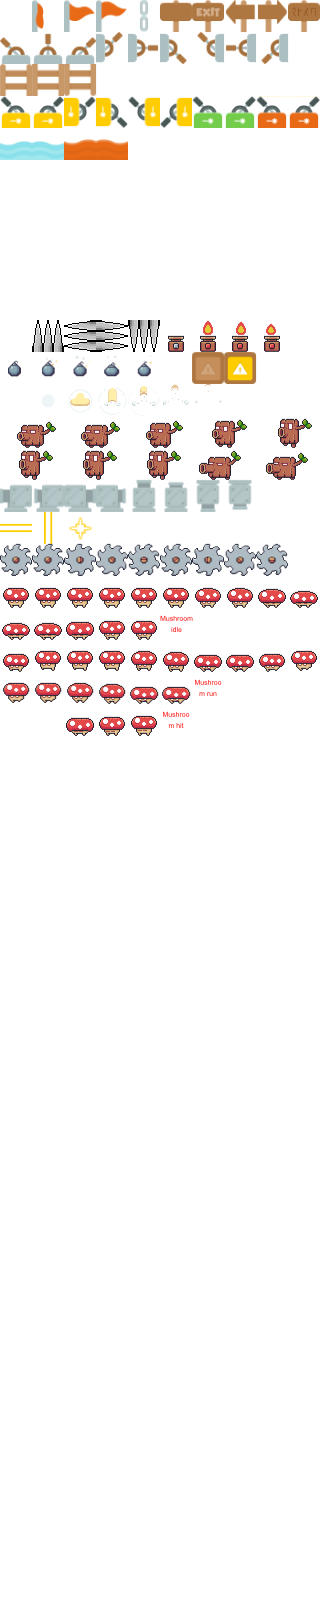
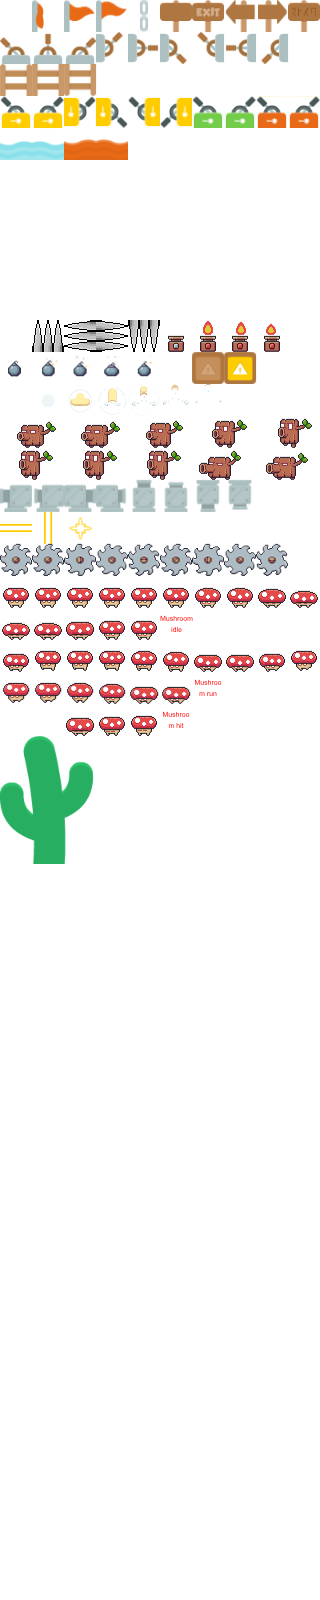
Add Cactus graphics, add cactus construction as ennemie

Changed region(s): [[0.0, 0.4375, 0.3125, 0.5625]]

diff --git a/WomxnDevelopUbisoftDemo/Game/GameDemo.cpp b/WomxnDevelopUbisoftDemo/Game/GameDemo.cpp
@@ -47,7 +47,7 @@ GameDemo::GameDemo()
     m_TextureDead.loadFromFile(dead_texture_name);
 	DeadBody::SetTextureAtlas(&m_TextureDead);
 
-    m_ennemies = m_Elements.loadObjects(texture_name, sf::Vector2u(32, 32), sf::Vector2u(10, 50), 32, 24, m_objects);
+    m_ennemies = m_Elements.loadObjects(texture_name, sf::Vector2u(32, 32), sf::Vector2u(10, 50), 32, 24, m_objects, m_cactus);
     
     // Load main character 
     m_MainCharacter = new MainCharacter(sf::Vector2u(1024, 768), m_Elements.getMainCharacterSpawnPosition());
@@ -89,6 +89,11 @@ void GameDemo::Render(sf::RenderTarget& target)
 	for ( const auto& enm : m_ennemies) 
 	{
 		target.draw(enm); 
+	}		
+    
+    for ( const auto& cac : m_cactus) 
+	{
+		target.draw(cac); 
 	}	
     
     // Elements 
@@ -356,14 +361,14 @@ void GameDemo::RenderDebugMenu(sf::RenderTarget& target)
         
         if (timer_progress_water < 0.3f)
         {
-            ImGui::PushStyleColor(ImGuiCol_FrameBg, (ImVec4)ImColor::HSV(0.0f / 7.0f, 0.4f, 0.5f));
-            ImGui::PushStyleColor(ImGuiCol_PlotHistogram, (ImVec4)ImColor::HSV(0.0f / 7.0f, 0.7f, 0.5f));
+            ImGui::PushStyleColor(ImGuiCol_FrameBg, (ImVec4)ImColor::HSV(0.0f / 7.0f, 0.4f, 0.6f));
+            ImGui::PushStyleColor(ImGuiCol_PlotHistogram, (ImVec4)ImColor::HSV(0.0f / 7.0f, 0.7f, 0.6f));
 
         }
         else
         {
-            ImGui::PushStyleColor(ImGuiCol_FrameBg, (ImVec4)ImColor::HSV(4.0f / 7.0f, 0.4f, 0.5f));
-            ImGui::PushStyleColor(ImGuiCol_PlotHistogram, (ImVec4)ImColor::HSV(4.0f / 7.0f, 0.7f, 0.5f));
+            ImGui::PushStyleColor(ImGuiCol_FrameBg, (ImVec4)ImColor::HSV(188.8f / 360.f, 0.4f, 0.7f));
+            ImGui::PushStyleColor(ImGuiCol_PlotHistogram, (ImVec4)ImColor::HSV(188.8f / 360.f, 0.7f, 0.7f));
         }
 
         ImGui::ProgressBar(timer_progress_water, ImVec2(70.0f, 0.0f));
@@ -375,14 +380,14 @@ void GameDemo::RenderDebugMenu(sf::RenderTarget& target)
         float timer_progress_void = 1.0f - m_MainCharacter->GetPourcentageAllowedTime(terrain::Element::Void);
         if (timer_progress_void < 0.3f)
         {
-            ImGui::PushStyleColor(ImGuiCol_FrameBg, (ImVec4)ImColor::HSV(0.0f / 7.0f, 0.4f, 0.5f));
-            ImGui::PushStyleColor(ImGuiCol_PlotHistogram, (ImVec4)ImColor::HSV(0.0f / 7.0f, 0.7f, 0.5f));
+            ImGui::PushStyleColor(ImGuiCol_FrameBg, (ImVec4)ImColor::HSV(0.0f / 7.0f, 0.4f, 0.6f));
+            ImGui::PushStyleColor(ImGuiCol_PlotHistogram, (ImVec4)ImColor::HSV(0.0f / 7.0f, 0.7f, 0.6f));
 
         }
         else
         {
-            ImGui::PushStyleColor(ImGuiCol_FrameBg, (ImVec4)ImColor::HSV(5.0f / 7.0f, 0.5f, 0.5f));
-            ImGui::PushStyleColor(ImGuiCol_PlotHistogram, (ImVec4)ImColor::HSV(5.0f / 7.0f, 0.7f, 0.5f));
+            ImGui::PushStyleColor(ImGuiCol_FrameBg, (ImVec4)ImColor::HSV(5.0f / 7.0f, 0.5f, 0.6f));
+            ImGui::PushStyleColor(ImGuiCol_PlotHistogram, (ImVec4)ImColor::HSV(5.0f / 7.0f, 0.7f, 0.6f));
         }
         ImGui::ProgressBar(timer_progress_void, ImVec2(70.0f, 0.0f));
         ImGui::SameLine(0.0f, 5.0f);

diff --git a/WomxnDevelopUbisoftDemo/Game/TileMap.cpp b/WomxnDevelopUbisoftDemo/Game/TileMap.cpp
@@ -4,7 +4,7 @@
 #include <Game/ObjectsElements.h>
 
 
-std::vector<Ennemie> TileMap::loadObjects(const std::string& objectset, sf::Vector2u tileSize, sf::Vector2u NspriteSize, unsigned int width, unsigned int height, std::vector<ObjectsElements>& l_objects)
+std::vector<Ennemie> TileMap::loadObjects(const std::string& objectset, sf::Vector2u tileSize, sf::Vector2u NspriteSize, unsigned int width, unsigned int height, std::vector<ObjectsElements>& l_objects, std::vector<Ennemie>& cactus)
 {
 	
 	if (m_type != TmapType::monstobjects)
@@ -44,7 +44,15 @@ std::vector<Ennemie> TileMap::loadObjects(const std::string& objectset, sf::Vect
 					// Die at touch 
                     l_ennemies.push_back(Ennemie(spaw, false, animated, coord, tileSize.x, tileSize.y));
 				}
-				else 
+                else if (m_tiles[k] == 330)
+                {
+                    bool animated = false;
+                    sf::Vector2u cactus_size(3 * 32, 4 * 32);
+                    // match base of cactus with tile lower ypoint 
+                    spaw.y += tileSize.y/2.0f - cactus_size.y/2.0f ;
+                    cactus.push_back(Ennemie(spaw, false, animated, coord, cactus_size.x, cactus_size.y));
+                }
+                else
 				{
 					// classical elements
                     l_objects.push_back(ObjectsElements(spaw, true, coord, tileSize.x, tileSize.y));
@@ -115,6 +123,7 @@ bool TileMap::load(const std::string& tileset, sf::Vector2u tileSize, unsigned i
         return true;
 
 };
+
 
 
 void TileMap::draw(sf::RenderTarget& target, sf::RenderStates states) const

diff --git a/WomxnDevelopUbisoftDemo/Game/TileMap.h b/WomxnDevelopUbisoftDemo/Game/TileMap.h
@@ -20,7 +20,9 @@ public:
     // Load and assign to quad
     bool load(const std::string& tileset, sf::Vector2u tileSize, unsigned int width, unsigned int height);
     // Load and create ennemies sprite 
-    std::vector<Ennemie> loadObjects(const std::string& objectset, sf::Vector2u tileSize, sf::Vector2u NspriteSize, unsigned int width, unsigned int height, std::vector<ObjectsElements>& l_objects);
+    std::vector<Ennemie> loadObjects(const std::string& objectset, sf::Vector2u tileSize, sf::Vector2u NspriteSize, 
+                                    unsigned int width, unsigned int height, std::vector<ObjectsElements>& l_objects, 
+                                    std::vector<Ennemie>& cactus);
     void draw(sf::RenderTarget& target, sf::RenderStates states) const;
 
     // Type of tiles 

diff --git a/WomxnDevelopUbisoftDemo/Engine/Animation.h b/WomxnDevelopUbisoftDemo/Engine/Animation.h
@@ -50,7 +50,7 @@ public:
 
 protected:
 
-	sf::Texture* a_spritesheet;
+	sf::Texture* a_spritesheet = nullptr;
 	short unsigned int a_framecount = 0; 			// frame counter
 	short unsigned int a_framerate = 10; 			// anim = 10 fps
 	unsigned int a_frametexture = 0; 			    // index of the frame texture

diff --git a/WomxnDevelopUbisoftDemo/Game/GameDemo.h b/WomxnDevelopUbisoftDemo/Game/GameDemo.h
@@ -44,6 +44,7 @@ private:
     TileMap m_Elements; 
     sf::Texture m_TextureAtlas;
     sf::Texture m_TextureDead;
+    std::vector<Ennemie> m_cactus = {};
     std::vector<Ennemie> m_ennemies = {};
 	std::vector<DeadBody> m_deadbodies = {};
 	std::vector<ObjectsElements> m_objects = {};
